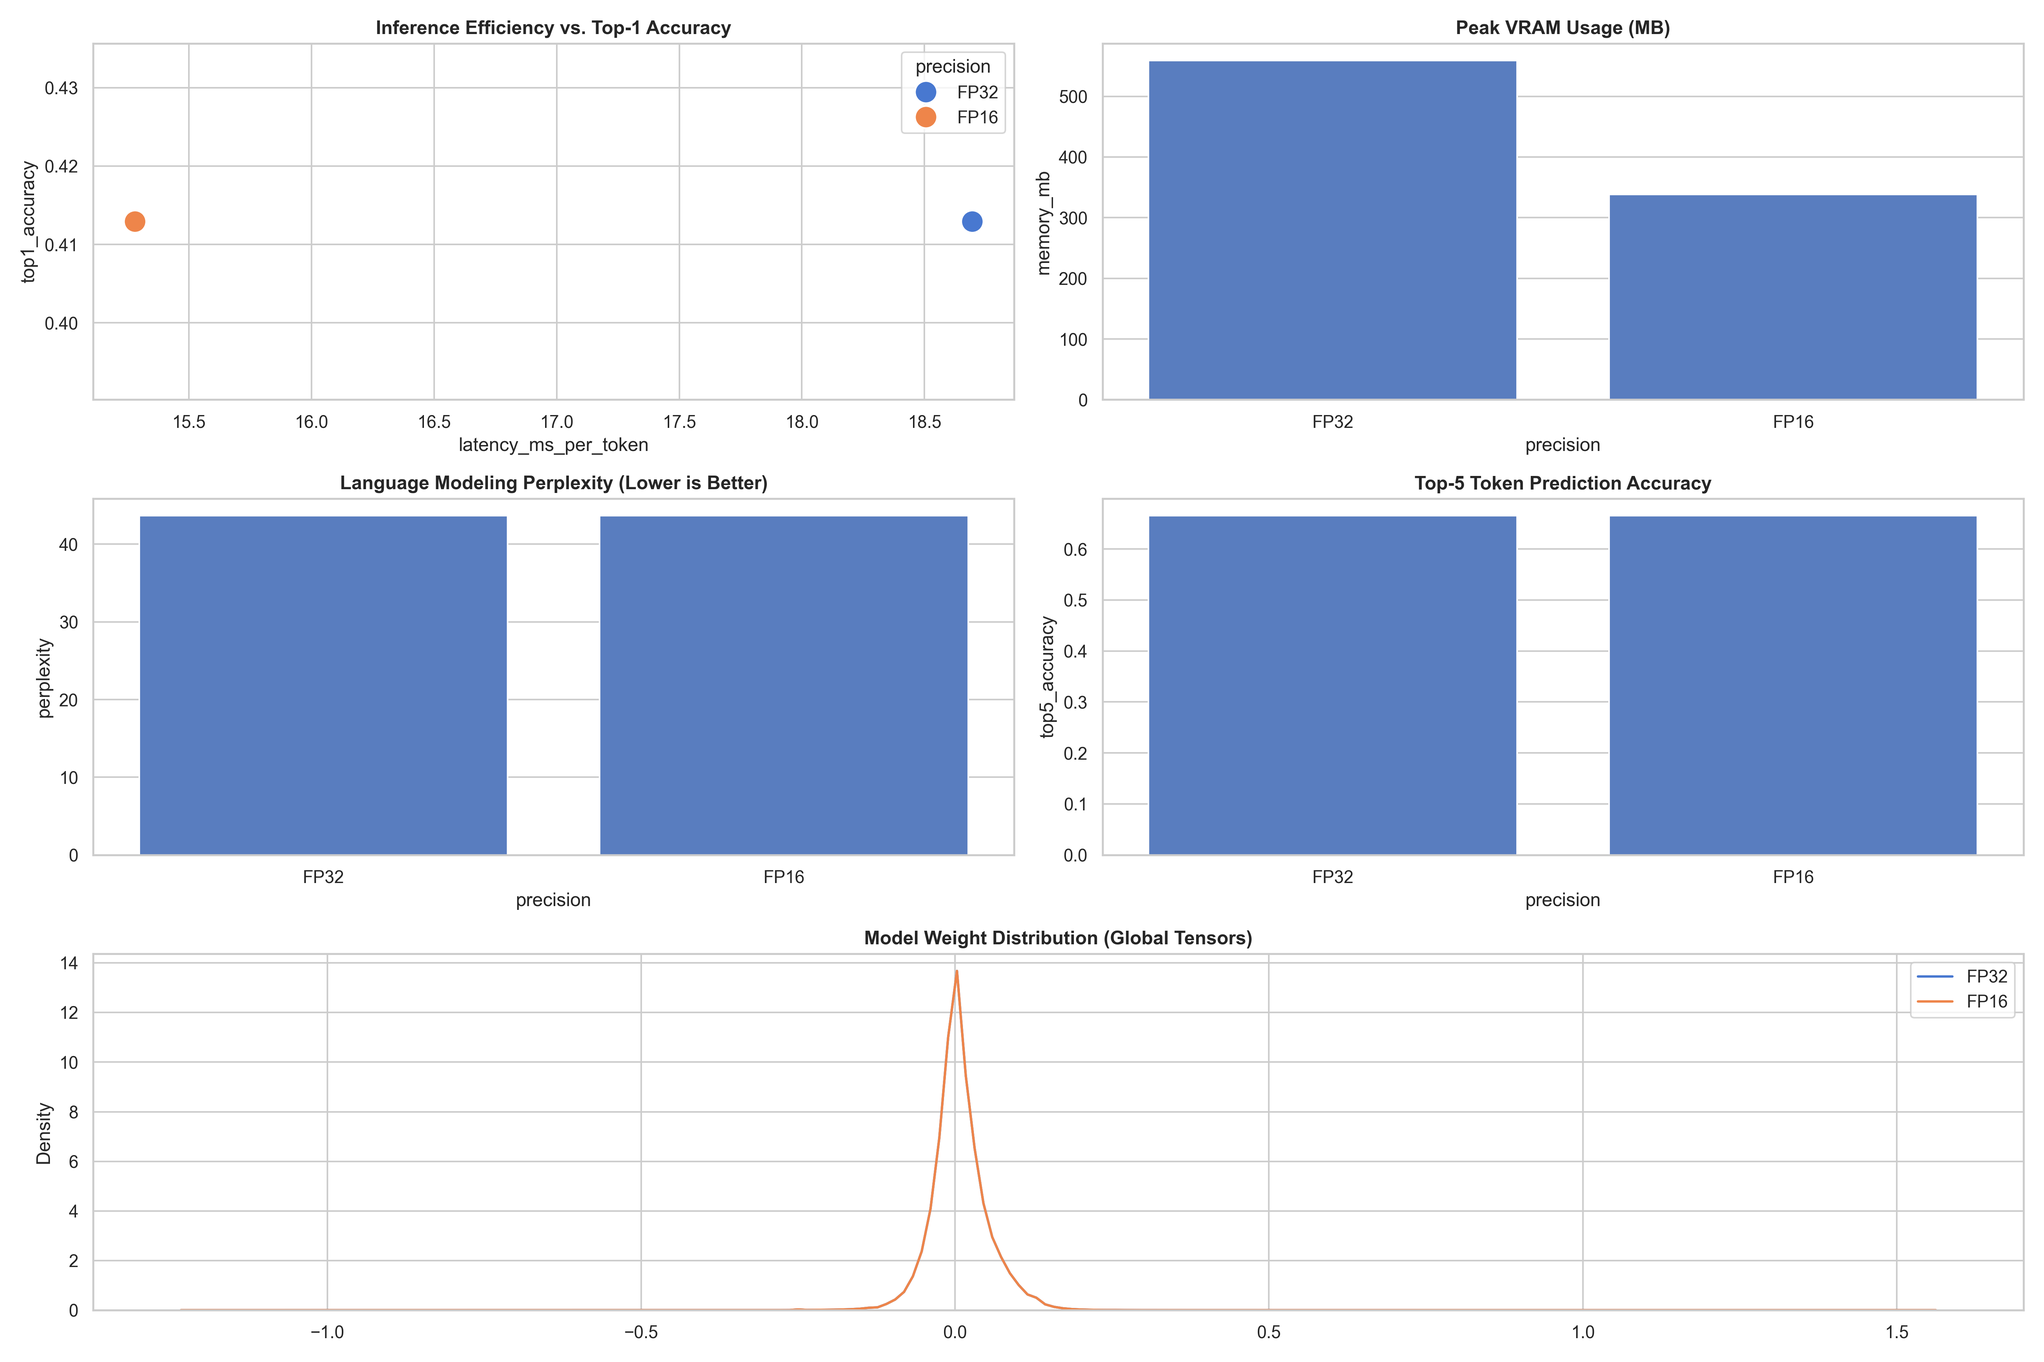
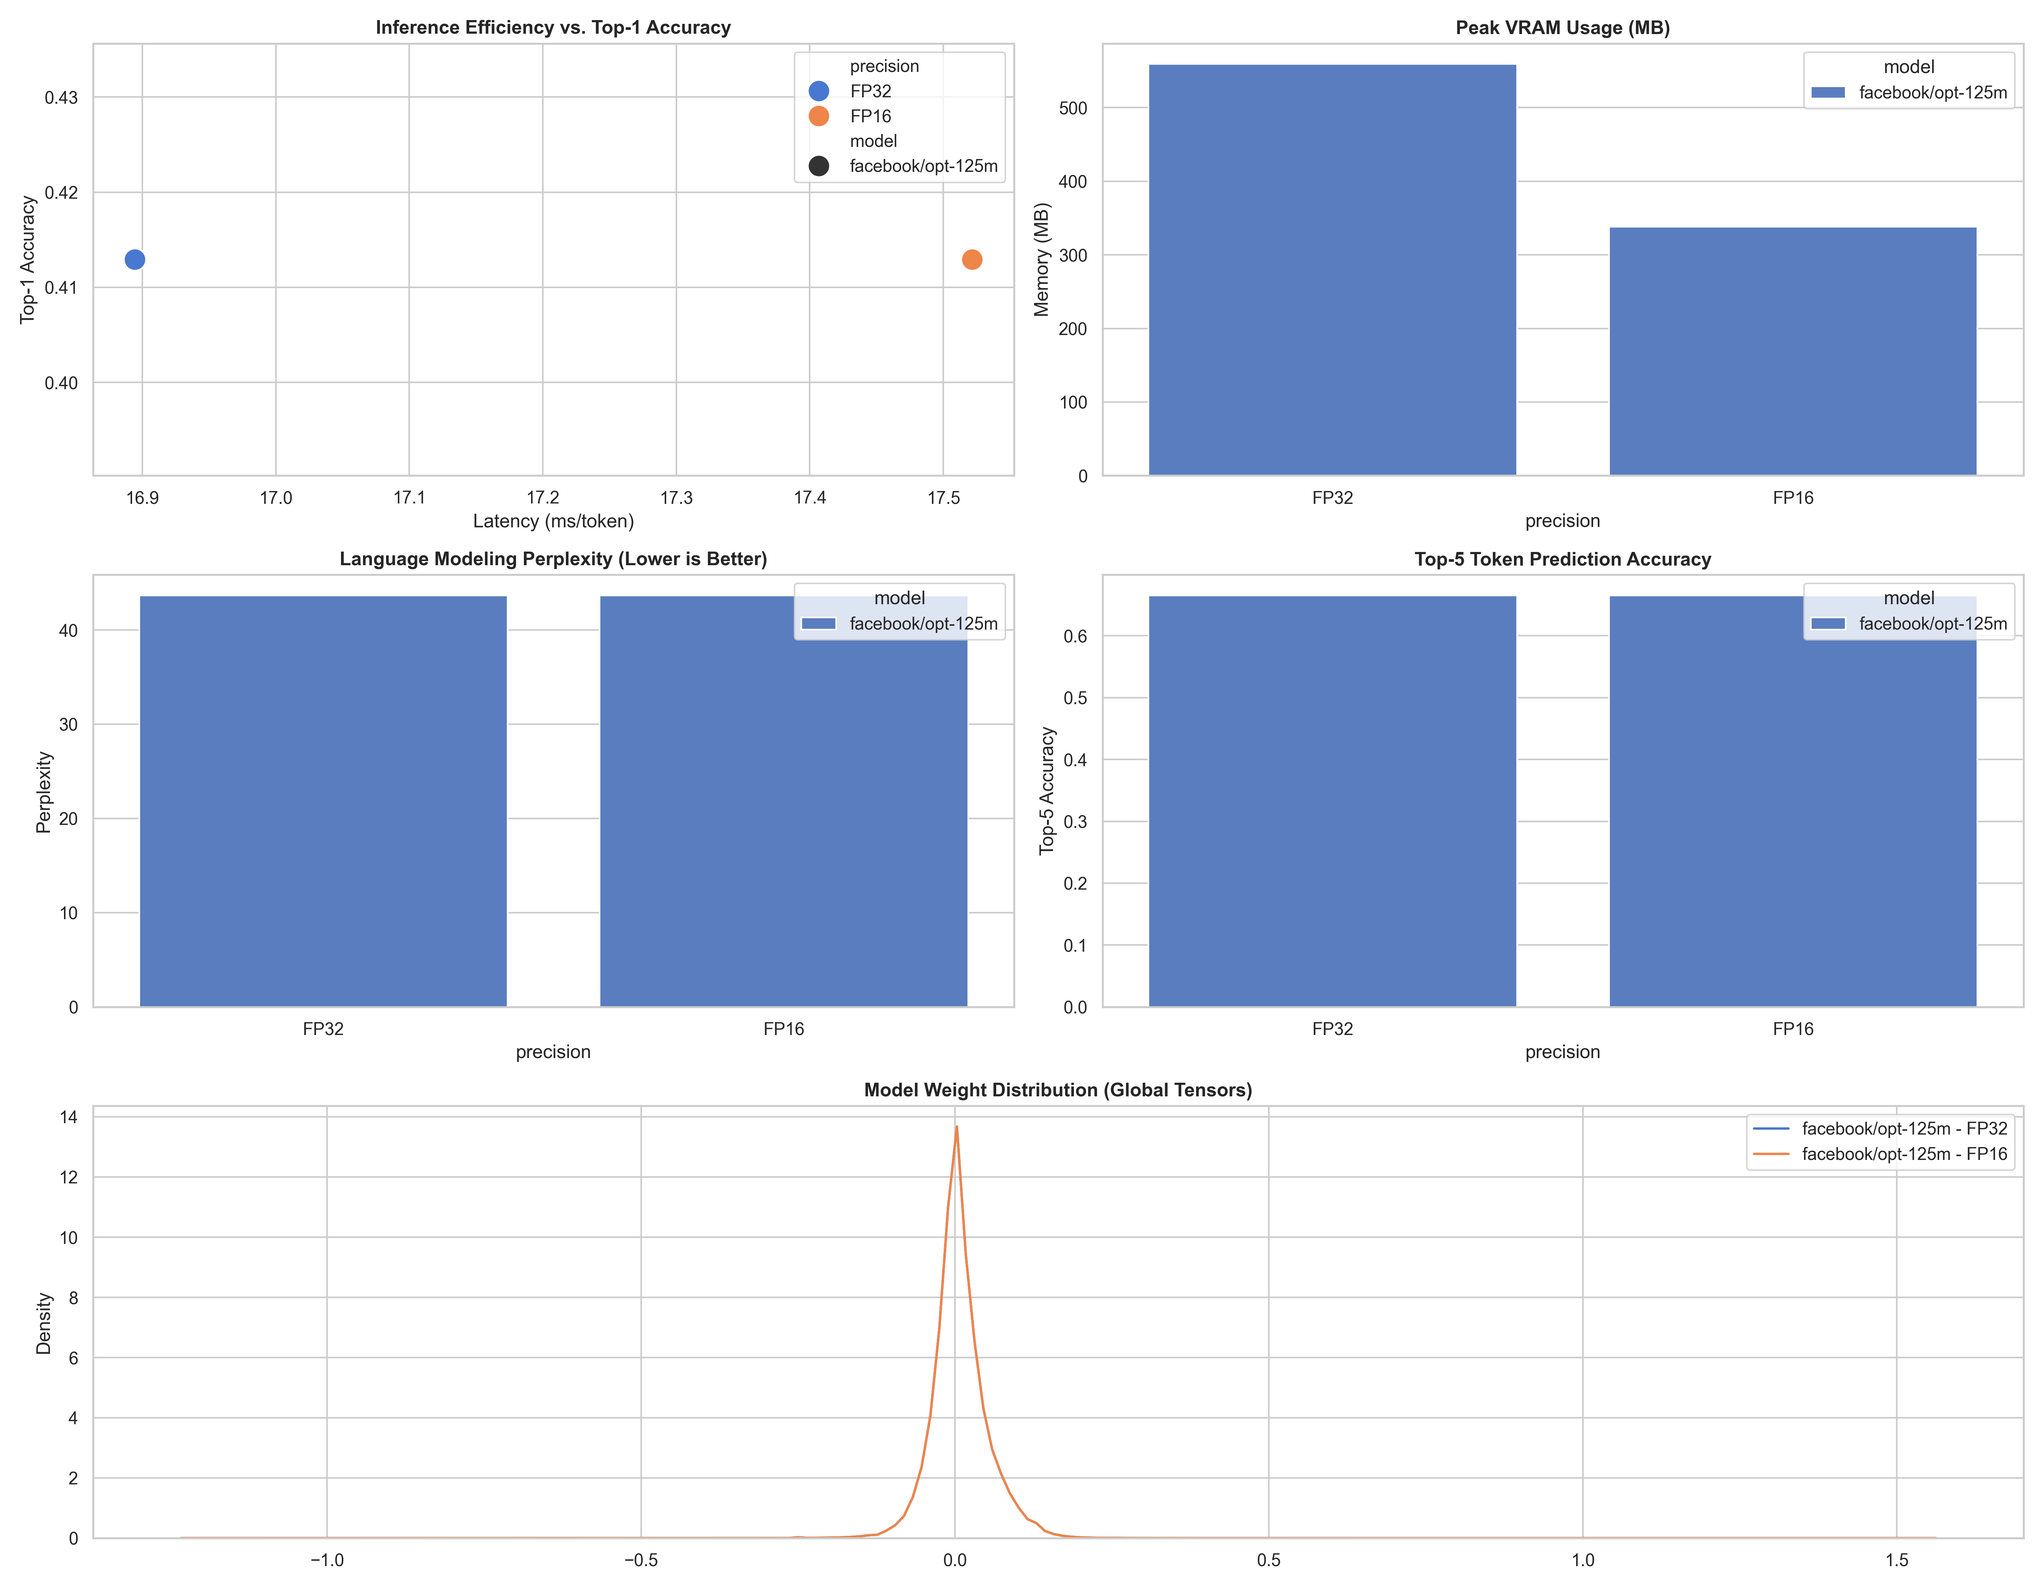
Refactor to CLI: Add NF4 support, JSON export, argparse, and tqdm progress bars

diff --git a/benchmark.py b/benchmark.py
@@ -1,12 +1,14 @@
 import torch
 import time
+import argparse
+import json
 import numpy as np
 import pandas as pd
 import matplotlib.pyplot as plt
 import seaborn as sns
-from transformers import AutoModelForCausalLM, AutoTokenizer
+from tqdm import tqdm
+from transformers import AutoModelForCausalLM, AutoTokenizer, BitsAndBytesConfig
 from datasets import load_dataset
-from torch.nn import CrossEntropyLoss
 import os
 
 def measure_memory():
@@ -45,8 +47,8 @@ def compute_accuracy(model, tokenizer, dataset_text, k=1):
     accuracy = correct.float().mean().item()
     return accuracy
 
-def benchmark_model(model_name, precision, device):
-    print(f"--- Benchmarking {model_name} in {precision} on {device} ---")
+def benchmark_model(model_name, precision, device, dataset_name="wikitext", dataset_config="wikitext-2-raw-v1"):
+    print(f"\n--- Benchmarking {model_name} in {precision} on {device.upper()} ---")
     tokenizer = AutoTokenizer.from_pretrained(model_name)
     
     kwargs = {}
@@ -54,15 +56,34 @@ def benchmark_model(model_name, precision, device):
         kwargs["device_map"] = "auto"
         if precision == "FP32":
             kwargs["torch_dtype"] = torch.float32
+        elif precision == "FP16":
+            kwargs["torch_dtype"] = torch.float16
+        elif precision == "BF16":
+            kwargs["torch_dtype"] = torch.bfloat16
         elif precision == "INT8":
             kwargs["load_in_8bit"] = True
         elif precision == "INT4":
             kwargs["load_in_4bit"] = True
+        elif precision == "NF4":
+            kwargs["quantization_config"] = BitsAndBytesConfig(
+                load_in_4bit=True,
+                bnb_4bit_quant_type="nf4",
+                bnb_4bit_compute_dtype=torch.float16,
+            )
     elif device == "mps":
         kwargs["torch_dtype"] = torch.float32 if precision == "FP32" else torch.float16
-        if precision in ["INT8", "INT4"]:
-            print(f"Skipping {precision} on MPS: bitsandbytes requires CUDA.")
+        if precision in ["INT8", "INT4", "NF4", "BF16"]:
+            print(f"Skipping {precision} on MPS: BitsAndBytes INT/NF formats and BF16 are not fully supported or optimized on MPS.")
             return None
+    else: # cpu
+        kwargs["torch_dtype"] = torch.float32
+        if precision != "FP32":
+            print(f"Skipping {precision} on CPU: Only FP32 is benchmarked on CPU in this script.")
+            return None
+            
+    if torch.cuda.is_available():
+        torch.cuda.reset_peak_memory_stats()
+        torch.cuda.empty_cache()
     
     start_time = time.time()
     try:
@@ -70,7 +91,7 @@ def benchmark_model(model_name, precision, device):
         if device == "mps":
             model = model.to("mps")
     except Exception as e:
-        print(f"Failed to load: {e}")
+        print(f"Failed to load {model_name} in {precision}: {e}")
         return None
 
     load_time = time.time() - start_time
@@ -80,44 +101,57 @@ def benchmark_model(model_name, precision, device):
     input_text = "Analysis of neural network quantization shows"
     inputs = tokenizer(input_text, return_tensors="pt").to(model.device)
     
+    print("Warming up model generation...")
+    with torch.no_grad():
+        _ = model.generate(**inputs, max_new_tokens=5, do_sample=False)
+        
     latencies = []
-    for _ in range(10): # More iterations for stability
+    for _ in tqdm(range(10), desc="Measuring Latency", unit="iter"):
         start_time = time.time()
         with torch.no_grad():
             _ = model.generate(**inputs, max_new_tokens=32, do_sample=False)
         if device == "cuda": torch.cuda.synchronize()
         elif device == "mps": torch.mps.synchronize()
-        latencies.append((time.time() - start_time) / 32) # seconds per token
+        latencies.append((time.time() - start_time) / 32)
         
-    avg_latency = np.mean(latencies) * 1000 # convert to ms/token
+    avg_latency = np.mean(latencies) * 1000 # ms/token
     
     # Accuracy & Perplexity
-    dataset = load_dataset("wikitext", "wikitext-2-raw-v1", split="test")
-    test_text = "\n\n".join(dataset["text"][:50])
-    
-    top1_acc = compute_accuracy(model, tokenizer, test_text, k=1)
-    top5_acc = compute_accuracy(model, tokenizer, test_text, k=5)
-    
-    # Perplexity (Fuller slice)
-    encodings = tokenizer("\n\n".join(dataset["text"][:100]), return_tensors="pt")
-    seq_len = encodings.input_ids.size(1)
-    nlls = []
-    stride = 512
-    for begin_loc in range(0, seq_len, stride):
-        end_loc = min(begin_loc + 512, seq_len)
-        input_ids = encodings.input_ids[:, begin_loc:end_loc].to(model.device)
-        with torch.no_grad():
-            outputs = model(input_ids, labels=input_ids)
-            nlls.append(outputs.loss)
-    ppl = torch.exp(torch.stack(nlls).mean()).item()
+    print(f"Evaluating Perplexity & Accuracy on {dataset_name} ({dataset_config})...")
+    try:
+        dataset = load_dataset(dataset_name, dataset_config, split="test")
+        test_text = "\n\n".join(dataset["text"][:50])
+        
+        top1_acc = compute_accuracy(model, tokenizer, test_text, k=1)
+        top5_acc = compute_accuracy(model, tokenizer, test_text, k=5)
+        
+        encodings = tokenizer("\n\n".join(dataset["text"][:100]), return_tensors="pt")
+        seq_len = encodings.input_ids.size(1)
+        nlls = []
+        stride = 512
+        for begin_loc in tqdm(range(0, seq_len, stride), desc="Calculating PPL", unit="batch"):
+            end_loc = min(begin_loc + 512, seq_len)
+            input_ids = encodings.input_ids[:, begin_loc:end_loc].to(model.device)
+            with torch.no_grad():
+                outputs = model(input_ids, labels=input_ids)
+                nlls.append(outputs.loss)
+        ppl = torch.exp(torch.stack(nlls).mean()).item()
+    except Exception as e:
+        print(f"Dataset evaluation failed: {e}")
+        top1_acc, top5_acc, ppl = 0, 0, 0
+
+    memory_usage = measure_memory()
+    print(f"Result -> Memory: {memory_usage:.2f} MB | Latency: {avg_latency:.2f} ms/token | PPL: {ppl:.2f}")
 
     res = {
+        "model": model_name,
         "precision": precision,
         "latency_ms_per_token": avg_latency,
-        "memory_mb": measure_memory(),
+        "memory_mb": memory_usage,
         "perplexity": ppl,
         "top1_accuracy": top1_acc,
         "top5_accuracy": top5_acc,
+        "load_time_s": load_time,
         "weight_data": weight_data
     }
     
@@ -126,48 +160,97 @@ def benchmark_model(model_name, precision, device):
     elif device == "mps": torch.mps.empty_cache()
     return res
 
-def plot_complex_results(results):
+def plot_complex_results(results, output_file='benchmark_results.png'):
+    if not results:
+        print("No results to plot.")
+        return
+        
     df = pd.DataFrame([{k: v for k, v in r.items() if k != 'weight_data'} for r in results])
     sns.set_theme(style="whitegrid", palette="muted")
-    fig = plt.figure(figsize=(18, 12))
+    fig = plt.figure(figsize=(18, 14))
     gs = fig.add_gridspec(3, 2)
 
     # 1. Latency vs Accuracy Trade-off
     ax1 = fig.add_subplot(gs[0, 0])
-    sns.scatterplot(data=df, x="latency_ms_per_token", y="top1_accuracy", hue="precision", s=200, ax=ax1)
+    sns.scatterplot(data=df, x="latency_ms_per_token", y="top1_accuracy", hue="precision", style="model", s=200, ax=ax1)
     ax1.set_title("Inference Efficiency vs. Top-1 Accuracy", fontweight='bold')
+    ax1.set_xlabel("Latency (ms/token)")
+    ax1.set_ylabel("Top-1 Accuracy")
     
     # 2. Memory Footprint
     ax2 = fig.add_subplot(gs[0, 1])
-    sns.barplot(data=df, x="precision", y="memory_mb", ax=ax2)
+    sns.barplot(data=df, x="precision", y="memory_mb", hue="model", ax=ax2)
     ax2.set_title("Peak VRAM Usage (MB)", fontweight='bold')
+    ax2.set_ylabel("Memory (MB)")
 
     # 3. Perplexity Comparison
     ax3 = fig.add_subplot(gs[1, 0])
-    sns.barplot(data=df, x="precision", y="perplexity", ax=ax3)
+    sns.barplot(data=df, x="precision", y="perplexity", hue="model", ax=ax3)
     ax3.set_title("Language Modeling Perplexity (Lower is Better)", fontweight='bold')
+    ax3.set_ylabel("Perplexity")
 
     # 4. Top-5 Accuracy
     ax4 = fig.add_subplot(gs[1, 1])
-    sns.barplot(data=df, x="precision", y="top5_accuracy", ax=ax4)
+    sns.barplot(data=df, x="precision", y="top5_accuracy", hue="model", ax=ax4)
     ax4.set_title("Top-5 Token Prediction Accuracy", fontweight='bold')
+    ax4.set_ylabel("Top-5 Accuracy")
 
     # 5. Weight Distribution (Technical Depth)
     ax5 = fig.add_subplot(gs[2, :])
     for r in results:
-        sns.kdeplot(r["weight_data"], label=r["precision"], ax=ax5, bw_adjust=0.5)
+        label = f'{r["model"]} - {r["precision"]}'
+        if len(r["weight_data"]) > 0:
+            sns.kdeplot(r["weight_data"], label=label, ax=ax5, bw_adjust=0.5)
     ax5.set_title("Model Weight Distribution (Global Tensors)", fontweight='bold')
     ax5.legend()
 
     plt.tight_layout()
-    plt.savefig('benchmark_results.png', dpi=300)
-    print("Sophisticated plots saved as benchmark_results.png")
+    plt.savefig(output_file, dpi=300)
+    print(f"Sophisticated plots saved as {output_file}")
+
+def save_results_json(results, output_file='benchmark_results.json'):
+    if not results:
+        return
+    data = [{k: v for k, v in r.items() if k != 'weight_data'} for r in results]
+    with open(output_file, 'w') as f:
+        json.dump(data, f, indent=4)
+    print(f"Raw metrics saved to {output_file}")
 
 if __name__ == "__main__":
-    device = "cuda" if torch.cuda.is_available() else ("mps" if torch.backends.mps.is_available() else "cpu")
-    precisions = ["FP32"]
-    if device == "cuda": precisions += ["INT8", "INT4"]
-    elif device == "mps": precisions += ["FP16"]
+    parser = argparse.ArgumentParser(description="Advanced LLM Quantization Benchmark Suite")
+    parser.add_argument("--models", nargs="+", default=["facebook/opt-125m"], help="HuggingFace model IDs to benchmark")
+    parser.add_argument("--precisions", nargs="+", default=["FP32", "FP16", "BF16", "INT8", "INT4", "NF4"], help="Precisions to test")
+    parser.add_argument("--device", type=str, default="auto", choices=["auto", "cuda", "mps", "cpu"], help="Compute device to force")
+    parser.add_argument("--dataset", type=str, default="wikitext", help="HuggingFace dataset name for accuracy/PPL")
+    parser.add_argument("--dataset-config", type=str, default="wikitext-2-raw-v1", help="Dataset configuration string")
+    parser.add_argument("--output-img", type=str, default="benchmark_results.png", help="Output plot filename")
+    parser.add_argument("--output-json", type=str, default="benchmark_results.json", help="Output JSON filename")
     
-    all_res = [res for p in precisions if (res := benchmark_model("facebook/opt-125m", p, device))]
-    if all_res: plot_complex_results(all_res)
+    args = parser.parse_args()
+    
+    if args.device == "auto":
+        device = "cuda" if torch.cuda.is_available() else ("mps" if torch.backends.mps.is_available() else "cpu")
+    else:
+        device = args.device
+        
+    print("="*60)
+    print("LLM QUANTIZATION BENCHMARK SUITE")
+    print("="*60)
+    print(f"Device:      {device.upper()}")
+    print(f"Models:      {', '.join(args.models)}")
+    print(f"Precisions:  {', '.join(args.precisions)}")
+    print(f"Dataset:     {args.dataset} ({args.dataset_config})")
+    print("="*60)
+    
+    all_res = []
+    for model_id in args.models:
+        for p in args.precisions:
+            res = benchmark_model(model_id, p, device, args.dataset, args.dataset_config)
+            if res: 
+                all_res.append(res)
+                
+    if all_res: 
+        save_results_json(all_res, args.output_json)
+        plot_complex_results(all_res, args.output_img)
+    else:
+        print("No successful benchmarks completed. Check hardware compatibility or model names.")

diff --git a/README.md b/README.md
@@ -1,38 +1,60 @@
-# LLM Quantization Benchmark (OPT-125M)
+# LLM Quantization Benchmark Suite
 
-An advanced benchmarking suite for evaluating Large Language Model (LLM) quantization strategies. This project moves beyond simple latency checks to analyze the impact of precision reduction on model weights, language modeling perplexity, and prediction accuracy.
+An advanced, highly configurable Command Line Interface (CLI) suite for evaluating Large Language Model (LLM) quantization strategies. This project goes beyond basic latency checks to analyze the structural and probabilistic impact of precision reduction on model weights and accuracy.
 
 ## Technical Analysis Features
-- **Rigorous Accuracy Metrics**: Evaluates **Top-1** and **Top-5 Accuracy** on a validation slice of the WikiText-2 dataset.
+- **Extensive Precision Support**: Evaluate models in `FP32`, `FP16`, `BF16` (Bfloat16), `INT8`, `INT4`, and `NF4` (NormalFloat4).
+- **Rigorous Accuracy Metrics**: Evaluates **Top-1** and **Top-5 Accuracy** on a validation slice of the WikiText dataset.
 - **Probabilistic Scoring**: Measures **Perplexity (PPL)** to quantify information loss across precisions.
-- **Weight Distribution Analysis**: Utilizes **Kernel Density Estimation (KDE)** to visualize the structural impact of quantization on global model tensors.
-- **Performance Profiling**: High-precision latency measurement (ms/token) and peak VRAM allocation tracking.
+- **Weight Distribution Analysis**: Utilizes **Kernel Density Estimation (KDE)** to visualize how quantization shifts global model tensors.
+- **Data Export**: Saves raw benchmark metrics to a `.json` file for downstream programmatic analysis.
 - **Multi-Hardware Optimization**:
-  - **CUDA**: Support for 4-bit and 8-bit quantization via `bitsandbytes`.
-  - **MPS (Apple Silicon)**: Optimized FP16/FP32 paths using Apple's Metal Performance Shaders.
-
-## Methodology
-The benchmark performs a clean load of the `facebook/opt-125m` model for each precision state to ensure no cross-contamination of memory stats. Latency is measured over multiple iterations to ensure statistical significance, focusing on token-per-second throughput rather than raw generation time.
+  - **CUDA**: Full support for `bitsandbytes` (INT8/INT4/NF4).
+  - **MPS (Apple Silicon)**: Native support for FP32 and FP16.
 
 ## Requirements
 - Python 3.10+
 - `uv` (recommended)
-- Hardware: CUDA GPU (for INT8/INT4) or Apple Silicon (for MPS).
+- Hardware: CUDA GPU (for INT8/INT4/NF4) or Apple Silicon (for MPS).
 
-## Execution
+## Quickstart
+
 ```bash
 uv run python benchmark.py
 ```
 
+## CLI Usage
+
+The benchmark is fully configurable via CLI arguments:
+
+```bash
+uv run python benchmark.py --help
+```
+
+### Options:
+- `--models`: List of HuggingFace model IDs to benchmark (e.g., `facebook/opt-125m facebook/opt-350m`). Default: `facebook/opt-125m`.
+- `--precisions`: List of precisions to test. Default tests all supported precisions for your device.
+- `--device`: Force a specific compute device (`auto`, `cuda`, `mps`, `cpu`). Default: `auto`.
+- `--dataset`: HuggingFace dataset name for accuracy/PPL. Default: `wikitext`.
+- `--dataset-config`: Dataset configuration string. Default: `wikitext-2-raw-v1`.
+- `--output-img`: Filename for the generated plot. Default: `benchmark_results.png`.
+- `--output-json`: Filename for the exported JSON metrics. Default: `benchmark_results.json`.
+
+### Example: Multi-Model Sweep
+```bash
+uv run python benchmark.py --models facebook/opt-125m facebook/opt-350m --precisions FP32 FP16 INT8 --output-img comparison.png
+```
+
 ## Comparative Analysis
-The generated plots provide a multi-dimensional view of the quantization trade-offs:
+
+The script automatically generates a multi-dimensional visualization (`benchmark_results.png`):
 
 ![Benchmark Analysis](benchmark_results.png)
 
 *Key Insights:*
 - **Efficiency Frontier**: Visualizes the Pareto frontier between inference speed and Top-1 accuracy.
-- **Memory Compression**: Quantifies the VRAM savings provided by 8-bit and 4-bit loading.
-- **Weight Drift**: The KDE plot reveals how quantization shifts the numerical distribution of the model's intelligence.
+- **Memory Compression**: Quantifies the VRAM savings provided by aggressive quantization (NF4, INT4).
+- **Weight Drift**: The KDE plot reveals how quantization alters the numerical distribution of the model's intelligence.
 
 ---
 *Created as part of a deep-dive into LLM optimization and deployment efficiency.*
